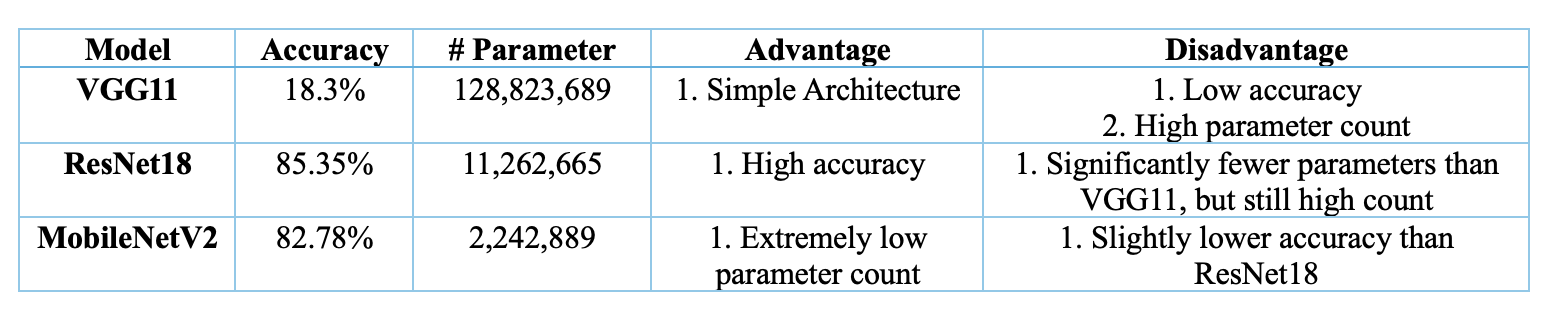
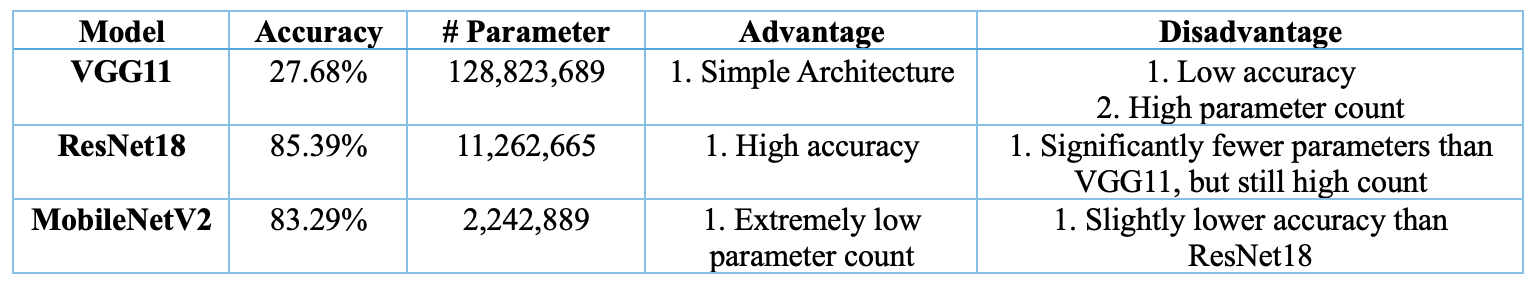
update final

Changed region(s): [[0.0, 0.0306, 1.0, 0.949]]

diff --git a/index.html b/index.html
@@ -165,7 +165,7 @@
                                         when training the model.
                                     <br><br></li>
                                 </ul>
-                                <li style="color: red;">Code file: CS7641_fMRI_DL/data_process_code/project.py<br><br></li>
+                                <li style="color: red;">Code file: CS7641_fMRI_DL/data_process_code/project.py (Midterm)<br><br></li>
                     </ul>
 
                 <li><b>ML Algorithms/Models Implemented<br><br></b>
@@ -178,13 +178,13 @@
                                         <ul>
                                             <li>a. Define an CNN resnet model using PyTorch’s torchvisoin.module.</li>
                                             <li>b. Include CNN layers to process 3D MRI image data and a fully connected layer to map the CNN's hidden state to 9 output classes.</li>
-                                            <li>c. Use resnet18 for the CNN layer in our training, which can be replaced with LSTM or GRU to consider sequential information for better performance later for improvement.</li>
+                                            <li>c. Use resnet18 for the CNN layer in our training.</li>
                                         </ul>
                                     </li>
                                     <li>
                                         <strong>Initialization:</strong>
                                         <ul>
-                                            <li>a. Initialize the hidden state to zeros at the start of each sequence.</li>
+                                            <li>a. Use the pretrain model for better initialization.</li>
                                             <li>b. Set the model to use GPU if available to speed up training and inference.</li>
                                         </ul>
                                     </li>
@@ -211,7 +211,7 @@
                                         </ul>
                                     </li>
                                     <li>
-                                        <strong>Training Loop (using 200 epoch for training):</strong>
+                                        <strong>Training Loop (using 80 epoch for training):</strong>
                                         <ul>
                                             <li>For each epoch, perform:
                                                 <ul>
@@ -244,14 +244,14 @@
                                         <strong>Model Definition:</strong>
                                         <ul>
                                             <li>a. Define a CNN VGG11 model using PyTorch’s torchvision.models.</li>
-                                            <li>b. Include CNN layers to process 3D fMRI image data and a fully connected layer to map the CNN’s hidden state to XX output classes.</li>
-                                            <li>c. Use VGG11 for the CNN layer in our training, which can be replaced with LSTM or GRU to consider sequential information for better performance later for improvement.</li>
+                                            <li>b. Include CNN layers to process 3D fMRI image data and a fully connected layer to map the CNN’s hidden state to 9 output classes.</li>
+                                            <li>c. Use VGG11 for the CNN layer in our training.</li>
                                         </ul>
                                     </li>
                                     <li>
                                         <strong>Initialization:</strong>
                                         <ul>
-                                            <li>a. Initialize the hidden state to zeros at the start of each sequence.</li>
+                                            <li>a. Use the pretrain model for better initialization.</li>
                                             <li>b. Set the model to use GPU if available to speed up training and inference.</li>
                                         </ul>
                                     </li>
@@ -273,12 +273,12 @@
                                         <strong>Loss Function and Optimizer:</strong>
                                         <ul>
                                             <li>a. Use CrossEntropyLoss for multi-class classification.</li>
-                                            <li>b. Implement the Adam optimizer with a learning rate of XX and weight decay of XX to avoid the overfitting.</li>
+                                            <li>b. Implement the Adam optimizer with a learning rate of 0.01 and weight decay of 0.001 to avoid the overfitting.</li>
                                             <li>c. Incorporate a learning rate scheduler to dynamically adjust the learning rate during training.</li>
                                         </ul>
                                     </li>
                                     <li>
-                                        <strong>Training Loop (using XX epoch for training):</strong>
+                                        <strong>Training Loop (using 80 epoch for training):</strong>
                                         <ul>
                                             <li>For each epoch, perform:
                                                 <ul>
@@ -310,13 +310,13 @@
                                         <ul>
                                             <li>a. Define a CNN MobileNetV2 model using PyTorch’s torchvision.models.</li>
                                             <li>b. Include CNN layers to process 3D fMRI image data and a fully connected layer to map the CNN’s hidden state to XX output classes.</li>
-                                            <li>c. Use MobileNetV2 for the CNN layer in our training, which can be replaced with LSTM or GRU to consider sequential information for better performance later for improvement.</li>
+                                            <li>c. Use MobileNetV2 for the CNN layer in our training.</li>
                                         </ul>
                                     </li>
                                     <li>
                                         <strong>Initialization:</strong>
                                         <ul>
-                                            <li>a. Initialize the hidden state to zeros at the start of each sequence.</li>
+                                            <li>a. Use the pretrain model for better initialization.</li>
                                             <li>b. Set the model to use GPU if available to speed up training and inference.</li>
                                         </ul>
                                     </li>
@@ -338,12 +338,12 @@
                                         <strong>Loss Function and Optimizer:</strong>
                                         <ul>
                                             <li>a. Use CrossEntropyLoss for multi-class classification.</li>
-                                            <li>b. Implement the Adam optimizer with a learning rate of XX and weight decay of XX to avoid the overfitting.</li>
+                                            <li>b. Implement the Adam optimizer with a learning rate of 0.01 and weight decay of 0.001 to avoid the overfitting.</li>
                                             <li>c. Incorporate a learning rate scheduler to dynamically adjust the learning rate during training.</li>
                                         </ul>
                                     </li>
                                     <li>
-                                        <strong>Training Loop (using XX epoch for training):</strong>
+                                        <strong>Training Loop (using 80 epoch for training):</strong>
                                         <ul>
                                             <li>For each epoch, perform:
                                                 <ul>
@@ -369,6 +369,7 @@
 
                             
                         <li style="color: red;">Code file: CS7641_fMRI_DL/data_process_code/project_1.py (Final)<br><br></li>
+                        <li style="color: red;">Code file: CS7641_fMRI_DL/data_process_code/project_Hugo_ver2.py (Final including plot)<br><br></li>
                     </ul>
 
 
@@ -385,45 +386,43 @@
                         <li><b>1. Draw the Confusion Matrix for the three Predict Models:</b>
                             <ul><br><br>
                                 <li><b>Confusion Matrix For CNN-ResNet18:</b></li>
-                                <li><img src="./public/confusion_matrix.png" alt="Confusion matrix"></li>
-                                <li> The confusion Matrix is used to see the relationship between the predict and true result in terms of 9 different picture conditions according to the brain 3D images, which means if we can predict the pictures successfully according to the brain activation.<br><br></li>
+                                <li><img src="./public/confusion_matrix_resnet.png" alt="Confusion matrix"></li>
                             </ul>
                             <ul><br><br>
                                 <li><b>Confusion Matrix For CNN-VGG11:</b></li>
-                                <li><img src="./public/confusion_matrix.png" alt="Confusion matrix"></li>
-                                <li> The confusion Matrix is used to see the relationship between the predict and true result in terms of 9 different picture conditions according to the brain 3D images, which means if we can predict the pictures successfully according to the brain activation.<br><br></li>
+                                <li><img src="./public/confusion_matrix_vgg11.png" alt="Confusion matrix"></li>
                             </ul>
                             <ul><br><br>
                                 <li><b>Confusion Matrix For CNN-MobileNetV2:</b></li>
-                                <li><img src="./public/confusion_matrix.png" alt="Confusion matrix"></li>
-                                <li> The confusion Matrix is used to see the relationship between the predict and true result in terms of 9 different picture conditions according to the brain 3D images, which means if we can predict the pictures successfully according to the brain activation.<br><br></li>
+                                <li><img src="./public/confusion_matrix_mobilenet.png" alt="Confusion matrix"></li>
                             </ul>
+                            <li> The confusion Matrix is used to see the relationship between the predict and true result in terms of 9 different picture conditions according to the brain 3D images, which means if we can predict the pictures successfully according to the brain activation. From above, we can know the ResNet18 and MobileNetV2 has a better performance.<br><br></li>
                         </li>
 
                         <li><b>2. Draw the Quantitative Metrics for the three Predict Models:</b></li>
                             <ul><br><br>
                                 <li><b>Quantitative Metrics For CNN-ResNet18:</b></li>
-                                <li><img src="./public/quantitative_metrics.png" alt="Quantitative metrics"></li>
-                                    <li><b>Accuracy = 0.15</b></li>
-                                    <li><b>Recall = 0.09</b></li>
-                                    <li><b>Precision = 0.04</b></li>
-                                    <li><b>F1 score = 0.06</b></li>
+                                <li><img src="./public/quantitative_metrics_resnet.png" alt="Quantitative metrics"></li>
+                                    <li><b>Accuracy = 0.85</b></li>
+                                    <li><b>Recall = 0.85</b></li>
+                                    <li><b>Precision = 0.95</b></li>
+                                    <li><b>F1 score = 0.89</b></li>
                             </ul>
                             <ul><br><br>
                                 <li><b>Quantitative Metrics For CNN-VGG11:</b></li>
-                                <li><img src="./public/quantitative_metrics.png" alt="Quantitative metrics"></li>
-                                    <li><b>Accuracy = 0.15</b></li>
-                                    <li><b>Recall = 0.09</b></li>
-                                    <li><b>Precision = 0.04</b></li>
-                                    <li><b>F1 score = 0.06</b></li>
+                                <li><img src="./public/quantitative_metrics_vgg11.png" alt="Quantitative metrics"></li>
+                                    <li><b>Accuracy = 0.28</b></li>
+                                    <li><b>Recall = 0.19</b></li>
+                                    <li><b>Precision = 0.13</b></li>
+                                    <li><b>F1 score = 0.13</b></li>
                             </ul>
                             <ul><br><br>
                                 <li><b>Quantitative Metrics For CNN-MobileNetV2:</b></li>
-                                <li><img src="./public/quantitative_metrics.png" alt="Quantitative metrics"></li>
-                                    <li><b>Accuracy = 0.15</b></li>
-                                    <li><b>Recall = 0.09</b></li>
-                                    <li><b>Precision = 0.04</b></li>
-                                    <li><b>F1 score = 0.06</b></li>
+                                <li><img src="./public/quantitative_metrics_mobilenet.png" alt="Quantitative metrics"></li>
+                                    <li><b>Accuracy = 0.83</b></li>
+                                    <li><b>Recall = 0.82</b></li>
+                                    <li><b>Precision = 0.94</b></li>
+                                    <li><b>F1 score = 0.86</b></li>
                             </ul>
                         </li>
                     </ul>
@@ -431,9 +430,9 @@
 
                 <li><b>Project Goals</b>
                     <ul>
-                        <li>Confirm what areas of the ITC are activated during the study</li>
-                        <li>See if we can predict what image was being viewed from the changes in brain activation</li>
-                        <li>Investigate the neural signals corresponding to the subjects' expectations during the pre- and post-sensory stages of decision-making</li>
+                        <li>Confirm what areas of the ITC are activated during the study. <br><br></li>
+                        <li>See if we can predict what image was being viewed from the changes in brain activation<br><br></li>
+                        <li>Investigate the neural signals corresponding to the subjects' expectations during the pre- and post-sensory stages of decision-making<br><br></li>
                     </ul>
                 </li><br><br>
                 <li><b>Expected Results and Current Results<br><br></b>
@@ -472,9 +471,9 @@
                             </ul>
                             
                             <ul>
-                            <li>a. ResNet18: achieves the best balance between accuracy (85.32%) and parameter count, making it the top-performing model among the three.<br><br></li>
-                            <li>b. MobileNetV2: offers a slightly lower accuracy (82.78%) compared to ResNet18 but excels in having the lowest parameter count, making it suitable for resource-constrained environments.<br><br></li>
-                            <li>c. VGG11: has the lowest accuracy (just 18.3%) and the highest number of parameters, which might not be ideal for applications with limited resources although it has the simplest structure.<br><br></li>
+                            <li>a. ResNet18: achieves the best balance between accuracy (85.39%) and parameter count, making it the top-performing model among the three.<br><br></li>
+                            <li>b. MobileNetV2: offers a slightly lower accuracy (83.29%) compared to ResNet18 but excels in having the lowest parameter count, making it suitable for resource-constrained environments.<br><br></li>
+                            <li>c. VGG11: has the lowest accuracy (just 27.68%) and the highest number of parameters, which might not be ideal for applications with limited resources although it has the simplest structure.<br><br></li>
                             </ul>
 
                         <li style="color: red;"><b>3. Overall Conclusion:</b><br><br></li>                      
